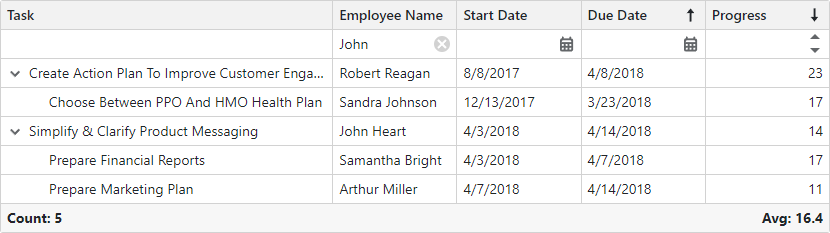
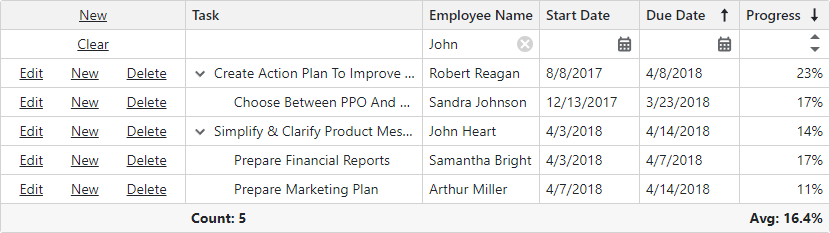
enable data editing

diff --git a/CS/GetStartedWithTreeList/Services/EmployeeTask.cs b/CS/GetStartedWithTreeList/Services/EmployeeTask.cs
@@ -7,7 +7,7 @@
         public DateTime StartDate { get; set; }
         public DateTime DueDate { get; set; }
         public int Progress { get; set; }
-
+        public EmployeeTask() { }
         public EmployeeTask(
             int id,
             int parentId,

diff --git a/README.md b/README.md
@@ -6,9 +6,7 @@
 <!-- default badges end -->
 # Blazor TreeList - Getting Started
 
-This example binds the [DevExpress Blazor TreeList](http://docs.devexpress.com/Blazor/404942/components/treelist) component to data, configures initial sort and filter settings, and displays total summaries.
-
-**Note**: Our Blazor TreeList component is currently available as a Community Technology Preview ([CTP](https://www.devexpress.com/aboutus/pre-release.xml)).
+This example binds the [DevExpress Blazor TreeList](http://docs.devexpress.com/Blazor/404942/components/treelist) component to data, configures initial sort and filter settings, displays total summaries, and enables data editing.
 
 ![Get Started with DevExpress Blazor TreeList](/blazor-treelist-get-started.png)
 
